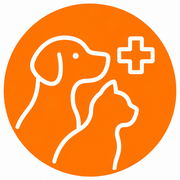
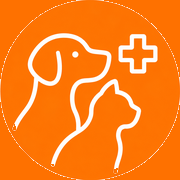
fav

diff --git a/templates/partials/header.html b/templates/partials/header.html
@@ -1,22 +1,22 @@
-{% load vet_icons %}
+{% load vet_icons vet_static %}
 <header class="appbar">
   <div class="appbar-inner{% if site_nav_primary|length < 4 %} appbar-inner--nav-compact{% endif %}">
     <a href="{% url 'clinic:home' %}" class="logo">
       {% if site.logo %}
       <img src="{{ site.logo.url }}" alt="{{ site.clinic_name_line2 }}" class="logo-img" width="32" height="32">
       {% else %}
-      <div class="logo-mark" aria-hidden="true">
-        <svg width="16" height="16" viewBox="0 0 24 24" fill="none" aria-hidden="true">
-          <path
-            fill="currentColor"
-            d="M10.5 4h3a1.5 1.5 0 011.5 1.5v3.5H19a1.5 1.5 0 011.5 1.5v3a1.5 1.5 0 01-1.5 1.5h-4v3.5A1.5 1.5 0 0113.5 20h-3a1.5 1.5 0 01-1.5-1.5v-3.5H5A1.5 1.5 0 013.5 13.5v-3A1.5 1.5 0 015 9h4V5.5A1.5 1.5 0 0110.5 4z"
-          />
-        </svg>
-      </div>
+      <img
+        src="{% static_v 'images/brand-icon.png' %}"
+        srcset="{% static_v 'images/[email redacted]' %} 2x"
+        alt="{{ site.clinic_name_line2 }}"
+        class="logo-img"
+        width="32"
+        height="32"
+      >
       {% endif %}
       <div class="brand-text">
         <span class="brand-l1">{{ site.clinic_name_line1 }}</span>
-        <span class="brand-l2">{{ site.clinic_name_line2 }}</span>
+        <span class="brand-l2" title="{{ site.clinic_name_line1|capfirst }}">{{ site.clinic_name_line2 }}</span>
       </div>
     </a>
     {% if site_nav_primary %}

diff --git a/static/css/components/nav.css b/static/css/components/nav.css
@@ -86,27 +86,12 @@
   margin-top: 2px;
 }
 
-.logo-mark {
-  flex-shrink: 0;
-  width: 32px;
-  height: 32px;
-  background: var(--orange);
-  border-radius: 10px;
-  display: grid;
-  place-items: center;
-  color: var(--paper);
-}
-
-.logo-mark svg {
-  display: block;
-}
-
 .logo-img {
   flex-shrink: 0;
   width: 32px;
   height: 32px;
-  object-fit: contain;
-  border-radius: 10px;
+  object-fit: cover;
+  border-radius: 50%;
 }
 
 .appbar-cta {

diff --git a/templates/partials/mobile_menu.html b/templates/partials/mobile_menu.html
@@ -5,7 +5,7 @@
     <div class="mobile-menu__head">
       <div class="mobile-menu__brand">
         <span class="mobile-menu__eyebrow">{{ site.clinic_name_line1 }}</span>
-        <span class="mobile-menu__title">{{ site.clinic_name_line2 }}</span>
+        <span class="mobile-menu__title" title="{{ site.clinic_name_line1|capfirst }}">{{ site.clinic_name_line2 }}</span>
       </div>
       <button type="button" class="icon-btn mobile-menu__close" data-menu-close aria-label="Закрити меню">
         {% icon 'arrow-left' 18 %}

diff --git a/config/settings/base.py b/config/settings/base.py
@@ -113,7 +113,7 @@ LOCALE_PATHS = [BASE_DIR / 'locale']
 STATIC_URL = '/static/'
 STATICFILES_DIRS = [BASE_DIR / 'static']
 STATIC_ROOT = BASE_DIR / 'staticfiles'
-STATIC_ASSET_VERSION = config('STATIC_ASSET_VERSION', default='20260706b')
+STATIC_ASSET_VERSION = config('STATIC_ASSET_VERSION', default='20260706c')
 STORAGES = {
     'default': {
         'BACKEND': 'django.core.files.storage.FileSystemStorage',